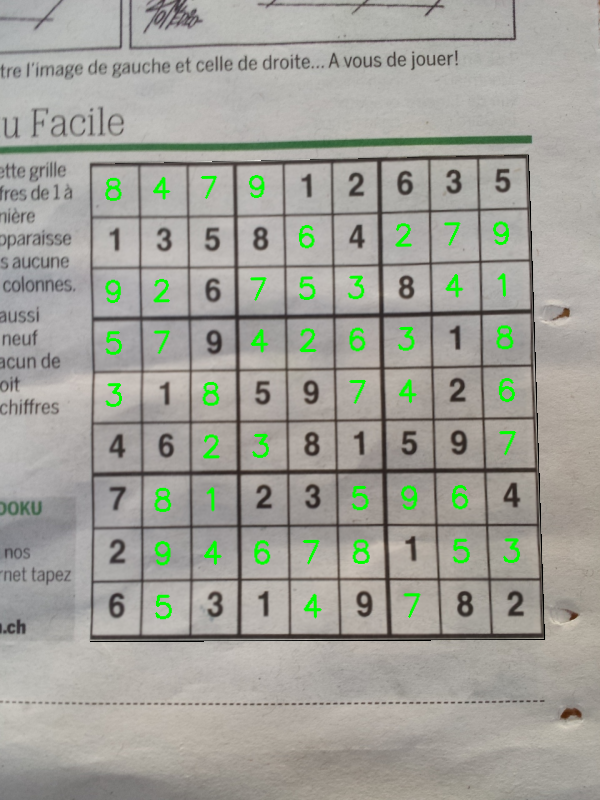
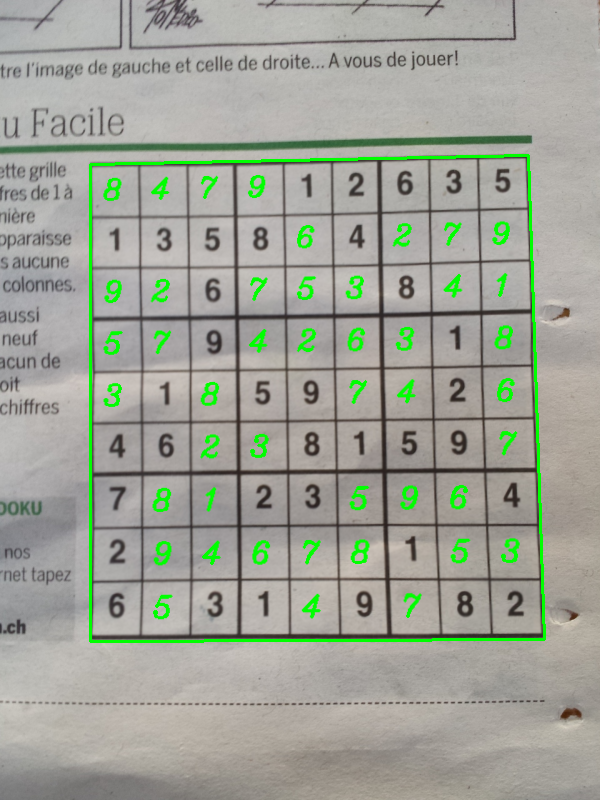
Changed display font and added display box to the grid.

diff --git a/sudoku_solver.py b/sudoku_solver.py
@@ -34,7 +34,7 @@ def recognize_grid(sudoku_gray, augment_size=20, num_models=5):
 
 
 def putTextOnGrid(sudoku_, answer_digits_, cell_width_, cell_height_):
-    font = cv2.FONT_HERSHEY_SIMPLEX
+    font = cv2.FONT_HERSHEY_SCRIPT_COMPLEX
     for i in range(9):
         for j in range(9):
             digit = answer_digits_[i * 9 + j]
@@ -91,6 +91,7 @@ imutils.showImage(sudoku, "Solved Sudoku")
 h, mask = cv2.findHomography(keypts_grid, keypts_img)
 just_grid = cv2.warpPerspective(sudoku, h, (width, height))
 output = cv2.add(img_without_grid, just_grid)
+cv2.drawContours(output, [keypts_img.reshape(4, 1, 2)], -1, (0, 255, 0), 2)
 imutils.showImage(output, "Final Solution")
 
 save_path = f"solutions\\original_{path_name}.png"

diff --git a/sudoku_solver_video.py b/sudoku_solver_video.py
@@ -77,7 +77,7 @@ while True:
                 solver.display(answer)
             answer_digits = list(answer.values())
 
-            font = cv2.FONT_HERSHEY_SIMPLEX
+            font = cv2.FONT_HERSHEY_SCRIPT_COMPLEX
             for i in range(9):
                 for j in range(9):
                     digit = answer_digits[i * 9 + j]
@@ -90,6 +90,8 @@ while True:
             h, mask = cv2.findHomography(keypts_grid, keypts_img)
             just_grid = cv2.warpPerspective(sudoku, h, (width, height))
             frame = cv2.add(img_without_grid, just_grid)
+            cv2.drawContours(frame, [keypts_img.reshape(4, 1, 2)], -1, (0, 255, 0), 2)
+
 
         else:
             print("Couldn't solve grid.")
